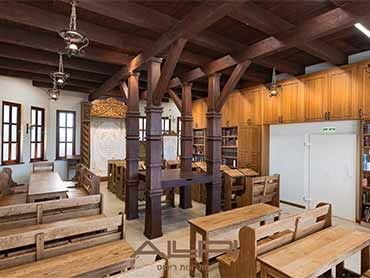
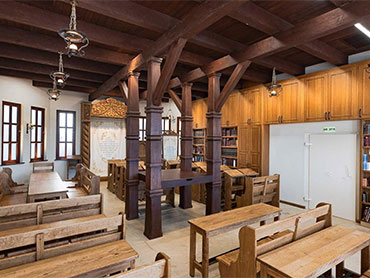
Chanded Alpi images in the Gallery

diff --git a/index.html b/index.html
@@ -906,7 +906,7 @@
             <article class="gallery-card" data-category="aron">
               <div
                 class="gallery-card-image"
-                data-highres="./images/gallery/large/3_aron_highres.jpg"
+                data-highres="./images/gallery/large/3_aron_highres_.jpg"
               >
                 <img
                   src="./images/gallery/small/3_aron_icon.jpg"
@@ -937,7 +937,7 @@
             <article class="gallery-card" data-category="aron">
               <div
                 class="gallery-card-image"
-                data-highres="./images/gallery/large/3_1_aron_highres.jpg"
+                data-highres="./images/gallery/large/3_1_aron_highres_.jpg"
               >
                 <img
                   src="./images/gallery/small/3_1_aron_icon.jpg"
@@ -997,7 +997,7 @@
             <article class="gallery-card" data-category="aron">
               <div
                 class="gallery-card-image"
-                data-highres="./images/gallery/large/5_aron_highres.jpg"
+                data-highres="./images/gallery/large/5_aron_highres_.jpg"
               >
                 <img
                   src="./images/gallery/small/5_aron_icon.jpg"
@@ -1027,7 +1027,7 @@
             <article class="gallery-card" data-category="aron">
               <div
                 class="gallery-card-image"
-                data-highres="./images/gallery/large/5_1_aron_highres.jpg"
+                data-highres="./images/gallery/large/5_1_aron_highres_.jpg"
               >
                 <img
                   src="./images/gallery/small/5_1_aron_icon.jpg"
@@ -1057,7 +1057,7 @@
             <article class="gallery-card" data-category="aron">
               <div
                 class="gallery-card-image"
-                data-highres="./images/gallery/large/5_2_aron_highres.jpg"
+                data-highres="./images/gallery/large/5_2_aron_highres_.jpg"
               >
                 <img
                   src="./images/gallery/small/5_2_aron_icon.jpg"
@@ -1088,7 +1088,7 @@
             <article class="gallery-card" data-category="amud">
               <div
                 class="gallery-card-image"
-                data-highres="./images/gallery/large/1_amud_highres.jpg"
+                data-highres="./images/gallery/large/1_amud_highres_.jpg"
               >
                 <img
                   src="./images/gallery/small/1_amud_icon.jpg"
@@ -1298,7 +1298,7 @@
             <article class="gallery-card" data-category="bimah">
               <div
                 class="gallery-card-image"
-                data-highres="./images/gallery/large/2_bimah_highres.jpg"
+                data-highres="./images/gallery/large/2_bimah_highres_.jpg"
               >
                 <img
                   src="./images/gallery/small/2_bimah_icon.jpg"